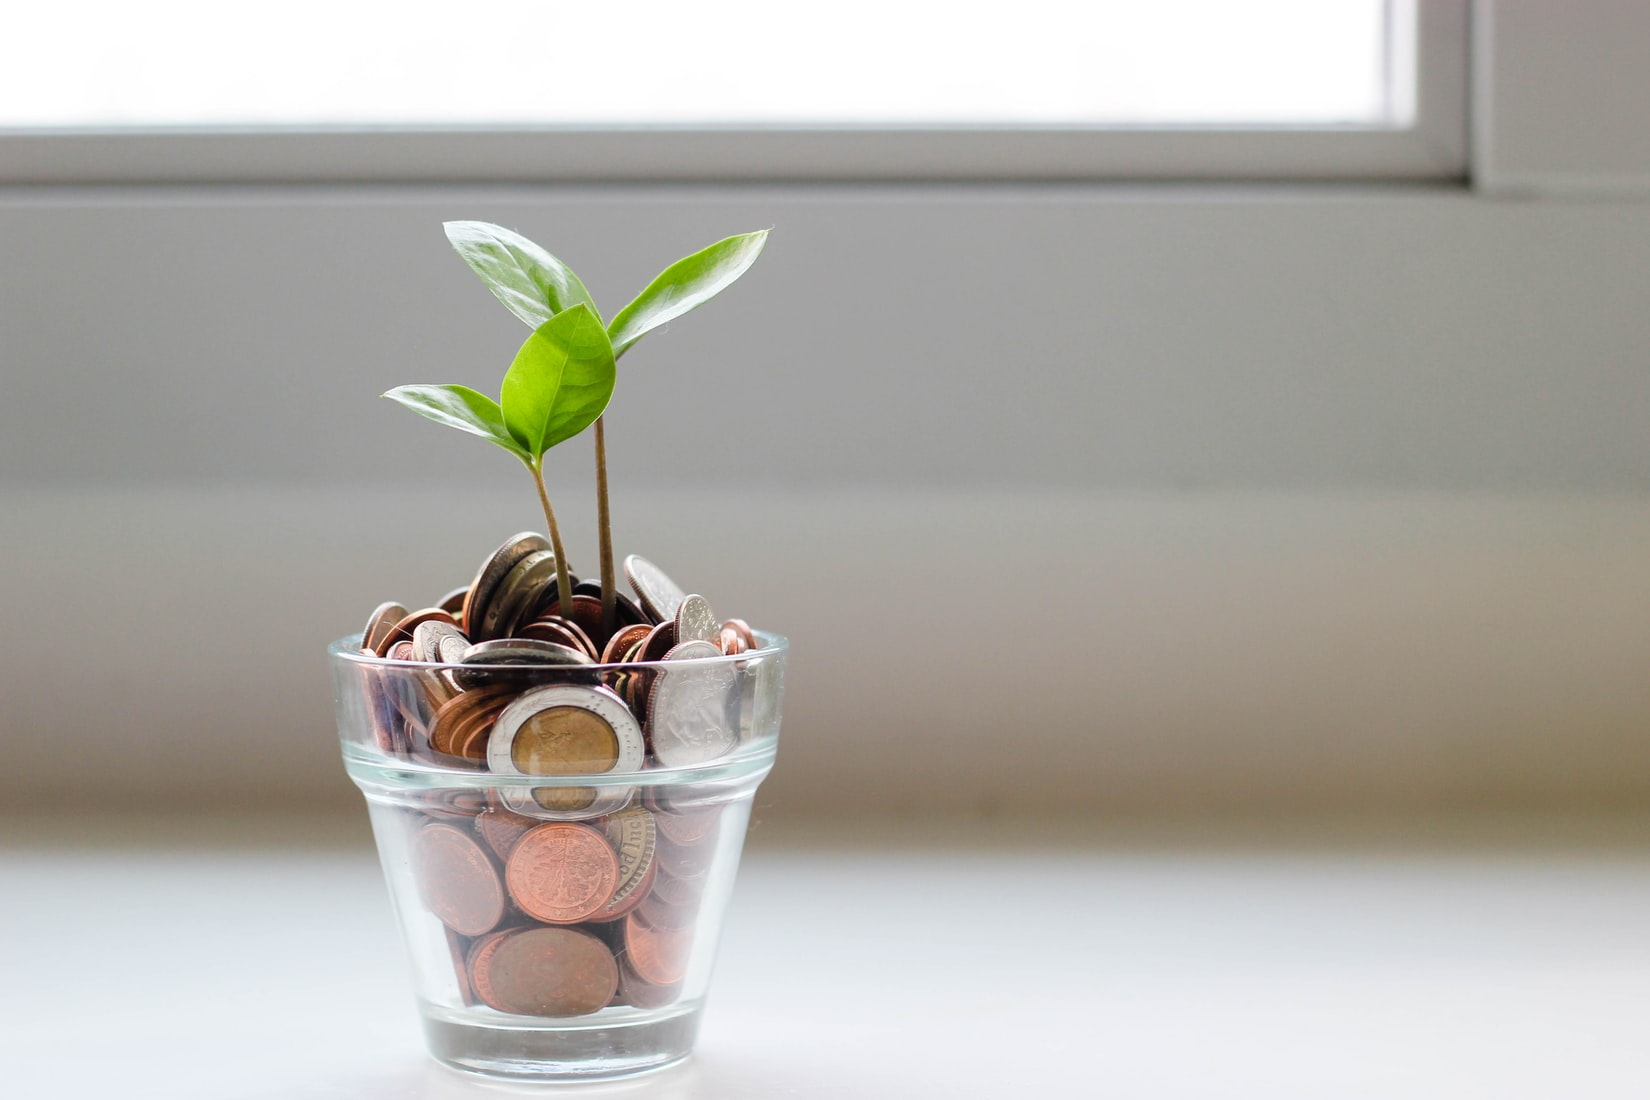
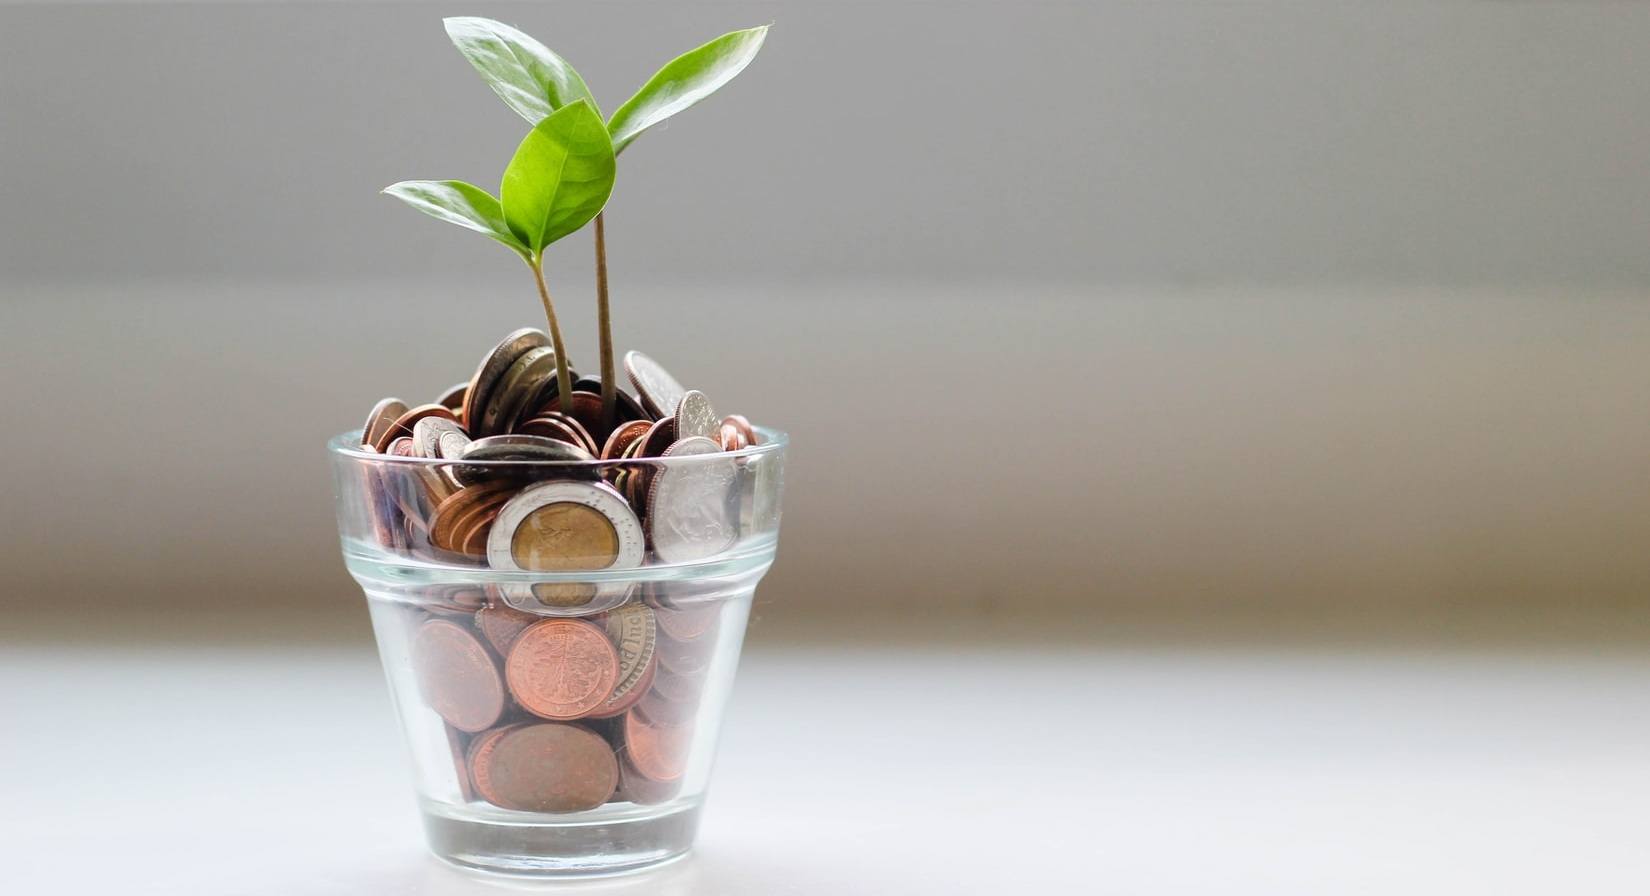
CSS ajustements

diff --git a/src/components/Hero.jsx b/src/components/Hero.jsx
@@ -1,16 +1,14 @@
-import React from "react";
-
 const Hero = () => {
   return (
     <div
-      className="bg-cover bg-center h-96 relative"
+      className="bg-cover bg-top h-[400px] relative"
       style={{ backgroundImage: "url('/img/bank-tree.jpeg')" }}
     >
-      <div className="bg-white p-6 w-80 absolute top-16 right-16">
-        <h2 className="text-lg font-bold">No fees.</h2>
-        <h2 className="text-lg font-bold">No minimum deposit.</h2>
-        <h2 className="text-lg font-bold">High interest rates.</h2>
-        <p className="mt-4 text-sm">
+      <div className="bg-white p-8 m-8 absolute top-16 right-16">
+        <h2 className="text-2xl font-bold">No fees.</h2>
+        <h2 className="text-2xl font-bold">No minimum deposit.</h2>
+        <h2 className="text-2xl font-bold">High interest rates.</h2>
+        <p className="mt-4 text-lg">
           Open a savings account with Argent Bank today!
         </p>
       </div>

diff --git a/src/components/Navbar.jsx b/src/components/Navbar.jsx
@@ -1,4 +1,3 @@
-import React from "react";
 import { Link, useNavigate } from "react-router-dom";
 import { useSelector, useDispatch } from "react-redux";
 import { logout } from "../store/features/authSlice";
@@ -14,12 +13,12 @@ const Navbar = () => {
   };
 
   return (
-    <nav className="flex justify-between items-center p-5 shadow-md">
+    <nav className="flex justify-between items-center px-[20px] py-[5px] shadow-md">
       <Link to="/" className="flex items-center">
         <img
           src="/img/argentBankLogo.png"
           alt="Argent Bank Logo"
-          className="w-[240px]"
+          className="w-[200px]"
         />
       </Link>
 

diff --git a/src/components/Features.jsx b/src/components/Features.jsx
@@ -5,12 +5,14 @@ const Features = () => {
   return (
     <section className="flex flex-col md:flex-row">
       {featuresData.map((feature, index) => (
-        <FeatureItem
-          key={index}
-          icon={feature.icon}
-          title={feature.title}
-          description={feature.description}
-        />
+        <div className="flex-1" key={index}>
+          <FeatureItem
+            key={index}
+            icon={feature.icon}
+            title={feature.title}
+            description={feature.description}
+          />
+        </div>
       ))}
     </section>
   );

diff --git a/src/components/FeatureItem.jsx b/src/components/FeatureItem.jsx
@@ -2,11 +2,11 @@ import React from "react";
 
 const FeatureItem = ({ icon, title, description }) => {
   return (
-    <div className="flex flex-col items-center p-6">
+    <div className="flex flex-col items-center p-10">
       <img
         src={icon}
         alt="Feature Icon"
-        className="w-24 border-4 border-green-500 rounded-full p-3"
+        className="w-[160px] border-8 border-green-500 rounded-full p-4"
       />
       <h3 className="text-lg font-bold mt-4">{title}</h3>
       <p className="text-gray-700 text-center mt-2">{description}</p>

diff --git a/src/Routes.jsx b/src/Routes.jsx
@@ -10,10 +10,10 @@ import ProtectedRoute from "./components/ProtectedRoute";
 const AppRoutes = () => {
   return (
     <Router>
-      <div className="flex flex-col h-screen overflow-hidden">
+      <div className="flex flex-col h-screen">
         <Navbar />
 
-        <div className="flex-grow overflow-y-auto">
+        <div className="flex-grow">
           <Routes>
             <Route path="/" element={<Homepage />} />
             <Route path="/login" element={<Login />} />

diff --git a/src/pages/Login.jsx b/src/pages/Login.jsx
@@ -20,7 +20,7 @@ const Login = () => {
   };
 
   return (
-    <div className="flex flex-col min-h-screen">
+    <div className="flex flex-col min-h-full">
       <div className="bg-dark-purple flex-grow flex justify-center items-center">
         <div className="bg-white p-8 rounded shadow-md w-96">
           <h1 className="text-xl font-bold text-center mb-4">Sign In</h1>

diff --git a/src/pages/User.jsx b/src/pages/User.jsx
@@ -27,7 +27,7 @@ const User = () => {
   };
 
   return (
-    <div className="min-h-screen bg-dark-purple flex flex-col">
+    <div className="min-h-full bg-dark-purple flex flex-col">
       <div className="flex-grow bg-dark-purple text-white py-10 px-6 text-center">
         <h1 className="text-3xl font-bold">
           Welcome back{" "}

diff --git a/src/components/Footer.jsx b/src/components/Footer.jsx
@@ -1,5 +1,3 @@
-import React from "react";
-
 const Footer = () => {
   return (
     <footer className="flex justify-center border-t-2 border-gray-200 py-6">

diff --git a/src/pages/Homepage.jsx b/src/pages/Homepage.jsx
@@ -1,4 +1,3 @@
-import React from "react";
 import Hero from "../components/Hero";
 import Features from "../components/Features";
 
